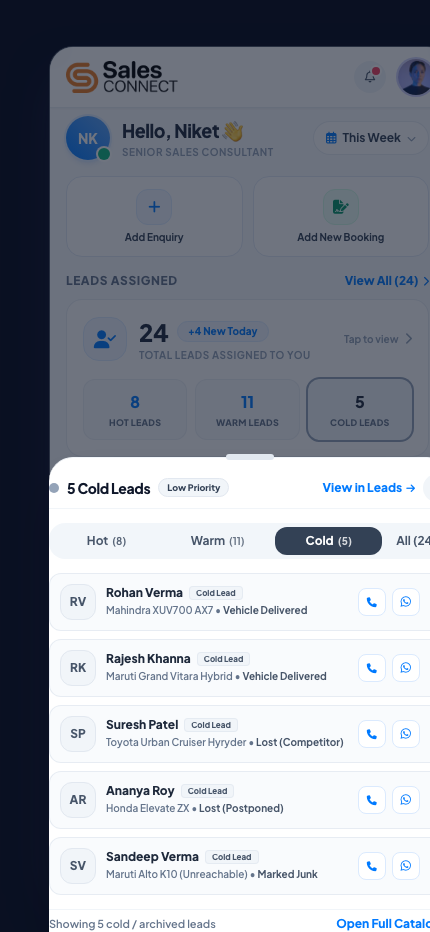
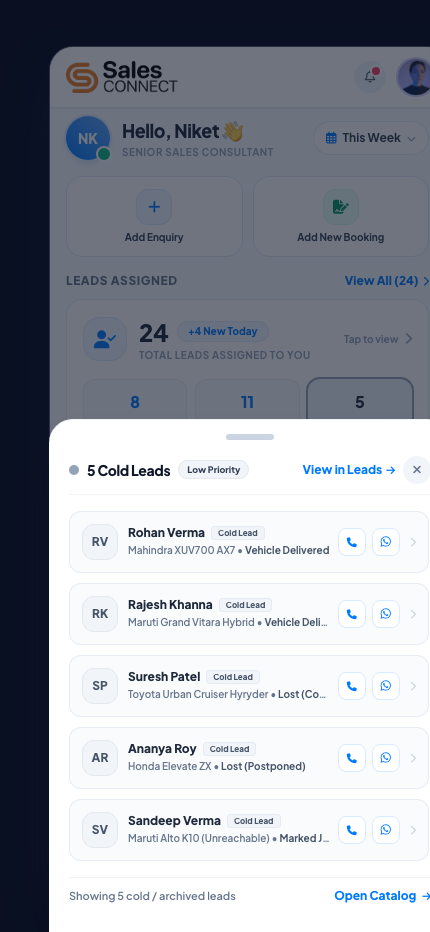
Remove redundant tab strip from assigned leads slider and adjust slider padding

diff --git a/index.html b/index.html
@@ -4262,19 +4262,19 @@
 
   <!-- ASSIGNED LEADS BOTTOM SHEET SLIDER (OPENS ON CLICKING ANY OF THE 3 CARDS) -->
   <div id="assignedLeadsSliderModal" onclick="if(event.target === this) closeAssignedLeadsSlider()" class="hidden fixed inset-0 bg-slate-900/60 backdrop-blur-xs flex items-end justify-center z-50 transition-opacity">
-    <div id="assignedLeadsSliderSheet" class="bg-white rounded-t-3xl w-full max-w-[402px] p-4.5 space-y-3.5 shadow-2xl border-t border-slate-100 animate-slide-up flex flex-col max-h-[82vh]">
+    <div id="assignedLeadsSliderSheet" class="bg-white rounded-t-3xl w-full max-w-[402px] px-5 pt-3.5 pb-6 shadow-2xl border-t border-slate-100 animate-slide-up flex flex-col max-h-[82vh] space-y-3.5">
       
       <!-- Drag & Pull Handle -->
-      <div class="w-12 h-1.5 bg-slate-200 rounded-full mx-auto -mt-1 cursor-pointer shrink-0" onclick="closeAssignedLeadsSlider()"></div>
+      <div class="w-12 h-1.5 bg-slate-300 rounded-full mx-auto mb-0.5 cursor-pointer shrink-0" onclick="closeAssignedLeadsSlider()"></div>
 
       <!-- Slider Header -->
-      <div class="flex items-center justify-between shrink-0 pb-1.5 border-b border-slate-100">
-        <div class="flex items-center gap-2">
-          <span id="sliderAssignedIndicator" class="w-2.5 h-2.5 rounded-full bg-amber-500"></span>
-          <h3 id="sliderAssignedTitle" class="text-sm font-black text-slate-900 tracking-tight">8 Hot Leads</h3>
-          <span id="sliderAssignedTag" class="text-[9px] font-black text-amber-700 bg-amber-50 px-2 py-0.5 rounded-full border border-amber-200">High Priority</span>
+      <div class="flex items-center justify-between shrink-0 pb-2.5 border-b border-slate-100">
+        <div class="flex items-center gap-2 min-w-0">
+          <span id="sliderAssignedIndicator" class="w-2.5 h-2.5 rounded-full bg-amber-500 shrink-0"></span>
+          <h3 id="sliderAssignedTitle" class="text-sm font-black text-slate-900 tracking-tight truncate">8 Hot Leads</h3>
+          <span id="sliderAssignedTag" class="text-[9px] font-black text-amber-700 bg-amber-50 px-2 py-0.5 rounded-full border border-amber-200 shrink-0">High Priority</span>
         </div>
-        <div class="flex items-center gap-2">
+        <div class="flex items-center gap-2 shrink-0">
           <button type="button" id="sliderAssignedDeepLinkBtn" onclick="openEnquiryFromSlider()" class="text-xs font-extrabold text-[#007AFF] hover:underline flex items-center gap-1 active:opacity-75 cursor-pointer">
             <span>View in Leads</span>
             <i class="fa-solid fa-arrow-right text-[10px]"></i>
@@ -4285,36 +4285,17 @@
         </div>
       </div>
 
-      <!-- 3 Small Cards Filter Tabs Segment inside Slider -->
-      <div class="flex items-center bg-slate-100/90 p-1 rounded-2xl gap-1 shrink-0 text-xs font-bold">
-        <button type="button" id="sliderTab-hot" onclick="switchSliderLeadsTab('hot')" class="slider-temp-tab flex-1 py-1.5 rounded-xl font-black text-center cursor-pointer transition-all flex items-center justify-center gap-1 bg-amber-500 text-white shadow-2xs">
-          <span>Hot</span>
-          <span id="sliderCount-hot" class="text-[10px] opacity-90">(8)</span>
-        </button>
-        <button type="button" id="sliderTab-warm" onclick="switchSliderLeadsTab('warm')" class="slider-temp-tab flex-1 py-1.5 rounded-xl text-slate-600 hover:text-slate-900 font-bold text-center cursor-pointer transition-all flex items-center justify-center gap-1">
-          <span>Warm</span>
-          <span id="sliderCount-warm" class="text-[10px] opacity-80">(11)</span>
-        </button>
-        <button type="button" id="sliderTab-cold" onclick="switchSliderLeadsTab('cold')" class="slider-temp-tab flex-1 py-1.5 rounded-xl text-slate-600 hover:text-slate-900 font-bold text-center cursor-pointer transition-all flex items-center justify-center gap-1">
-          <span>Cold</span>
-          <span id="sliderCount-cold" class="text-[10px] opacity-80">(5)</span>
-        </button>
-        <button type="button" id="sliderTab-all" onclick="switchSliderLeadsTab('all')" class="slider-temp-tab px-2.5 py-1.5 rounded-xl text-slate-600 hover:text-slate-900 font-bold text-center cursor-pointer transition-all">
-          <span>All (24)</span>
-        </button>
-      </div>
-
       <!-- Scrollable Lead Cards Feed -->
-      <div id="sliderAssignedListContainer" class="flex-1 overflow-y-auto space-y-2 pr-1 custom-scroll max-h-[50vh]">
+      <div id="sliderAssignedListContainer" class="flex-1 overflow-y-auto space-y-2.5 pr-0.5 custom-scroll max-h-[56vh] py-0.5">
         <!-- Dynamically populated by renderSliderAssignedLeadsList() -->
       </div>
 
       <!-- Bottom Quick Summary / CTA -->
-      <div class="pt-1.5 border-t border-slate-100 flex items-center justify-between shrink-0">
-        <span id="sliderAssignedCountNote" class="text-[11px] font-semibold text-slate-500">Showing 8 priority leads</span>
-        <button onclick="openEnquiryFromSlider()" class="text-xs font-black text-[#007AFF] flex items-center gap-1 cursor-pointer active:opacity-75">
-          <span>Open Full Catalog</span>
-          <i class="fa-solid fa-chevron-right text-[10px]"></i>
+      <div class="pt-2.5 pb-1 border-t border-slate-100 flex items-center justify-between shrink-0">
+        <span id="sliderAssignedCountNote" class="text-[11px] font-semibold text-slate-500 truncate mr-2">Showing 8 high priority hot leads</span>
+        <button onclick="openEnquiryFromSlider()" class="text-xs font-black text-[#007AFF] flex items-center gap-1.5 cursor-pointer shrink-0 active:opacity-75">
+          <span>Open Catalog</span>
+          <i class="fa-solid fa-arrow-right text-[10px]"></i>
         </button>
       </div>
     </div>
@@ -6851,24 +6832,6 @@
         : allAssignedLeadsData.filter(l => l.temp === tempKey);
 
       // Update Slider Tabs
-      ['hot', 'warm', 'cold', 'all'].forEach(k => {
-        const tabBtn = document.getElementById('sliderTab-' + k);
-        if (!tabBtn) return;
-        if (k === tempKey) {
-          if (k === 'hot') {
-            tabBtn.className = 'slider-temp-tab flex-1 py-1.5 rounded-xl font-black text-center cursor-pointer transition-all flex items-center justify-center gap-1 bg-amber-500 text-white shadow-2xs';
-          } else if (k === 'warm') {
-            tabBtn.className = 'slider-temp-tab flex-1 py-1.5 rounded-xl font-black text-center cursor-pointer transition-all flex items-center justify-center gap-1 bg-[#007AFF] text-white shadow-2xs';
-          } else if (k === 'cold') {
-            tabBtn.className = 'slider-temp-tab flex-1 py-1.5 rounded-xl font-black text-center cursor-pointer transition-all flex items-center justify-center gap-1 bg-slate-700 text-white shadow-2xs';
-          } else {
-            tabBtn.className = 'slider-temp-tab px-2.5 py-1.5 rounded-xl bg-white text-[#007AFF] font-black text-center cursor-pointer transition-all shadow-2xs';
-          }
-        } else {
-          tabBtn.className = 'slider-temp-tab ' + (k === 'all' ? 'px-2.5' : 'flex-1') + ' py-1.5 rounded-xl text-slate-600 hover:text-slate-900 font-bold text-center cursor-pointer transition-all flex items-center justify-center gap-1';
-        }
-      });
-
       if (tempKey === 'hot') {
         if (title) title.innerText = `${filtered.length} Hot Leads`;
         if (tag) {
@@ -6921,7 +6884,7 @@
             : 'bg-slate-100 text-slate-600 border-slate-200';
 
         return `
-          <div onclick="closeAssignedLeadsSlider(); openEnquiryDetails('${lead.name}', '${lead.id}')" class="bg-slate-50/80 hover:bg-white p-2.5 rounded-xl border border-slate-200/80 shadow-2xs flex items-center justify-between active:scale-[0.99] transition-all cursor-pointer">
+          <div onclick="closeAssignedLeadsSlider(); openEnquiryDetails('${lead.name}', '${lead.id}')" class="bg-slate-50/80 hover:bg-white p-3 rounded-xl border border-slate-200/80 shadow-2xs flex items-center justify-between active:scale-[0.99] transition-all cursor-pointer">
             <div class="flex items-center gap-2.5 min-w-0">
               <div class="w-9 h-9 rounded-xl ${avatarColor} font-black text-xs flex items-center justify-center shrink-0 border">
                 ${lead.initials}

diff --git a/sales_connect_redesign.html b/sales_connect_redesign.html
@@ -4262,19 +4262,19 @@
 
   <!-- ASSIGNED LEADS BOTTOM SHEET SLIDER (OPENS ON CLICKING ANY OF THE 3 CARDS) -->
   <div id="assignedLeadsSliderModal" onclick="if(event.target === this) closeAssignedLeadsSlider()" class="hidden fixed inset-0 bg-slate-900/60 backdrop-blur-xs flex items-end justify-center z-50 transition-opacity">
-    <div id="assignedLeadsSliderSheet" class="bg-white rounded-t-3xl w-full max-w-[402px] p-4.5 space-y-3.5 shadow-2xl border-t border-slate-100 animate-slide-up flex flex-col max-h-[82vh]">
+    <div id="assignedLeadsSliderSheet" class="bg-white rounded-t-3xl w-full max-w-[402px] px-5 pt-3.5 pb-6 shadow-2xl border-t border-slate-100 animate-slide-up flex flex-col max-h-[82vh] space-y-3.5">
       
       <!-- Drag & Pull Handle -->
-      <div class="w-12 h-1.5 bg-slate-200 rounded-full mx-auto -mt-1 cursor-pointer shrink-0" onclick="closeAssignedLeadsSlider()"></div>
+      <div class="w-12 h-1.5 bg-slate-300 rounded-full mx-auto mb-0.5 cursor-pointer shrink-0" onclick="closeAssignedLeadsSlider()"></div>
 
       <!-- Slider Header -->
-      <div class="flex items-center justify-between shrink-0 pb-1.5 border-b border-slate-100">
-        <div class="flex items-center gap-2">
-          <span id="sliderAssignedIndicator" class="w-2.5 h-2.5 rounded-full bg-amber-500"></span>
-          <h3 id="sliderAssignedTitle" class="text-sm font-black text-slate-900 tracking-tight">8 Hot Leads</h3>
-          <span id="sliderAssignedTag" class="text-[9px] font-black text-amber-700 bg-amber-50 px-2 py-0.5 rounded-full border border-amber-200">High Priority</span>
+      <div class="flex items-center justify-between shrink-0 pb-2.5 border-b border-slate-100">
+        <div class="flex items-center gap-2 min-w-0">
+          <span id="sliderAssignedIndicator" class="w-2.5 h-2.5 rounded-full bg-amber-500 shrink-0"></span>
+          <h3 id="sliderAssignedTitle" class="text-sm font-black text-slate-900 tracking-tight truncate">8 Hot Leads</h3>
+          <span id="sliderAssignedTag" class="text-[9px] font-black text-amber-700 bg-amber-50 px-2 py-0.5 rounded-full border border-amber-200 shrink-0">High Priority</span>
         </div>
-        <div class="flex items-center gap-2">
+        <div class="flex items-center gap-2 shrink-0">
           <button type="button" id="sliderAssignedDeepLinkBtn" onclick="openEnquiryFromSlider()" class="text-xs font-extrabold text-[#007AFF] hover:underline flex items-center gap-1 active:opacity-75 cursor-pointer">
             <span>View in Leads</span>
             <i class="fa-solid fa-arrow-right text-[10px]"></i>
@@ -4285,36 +4285,17 @@
         </div>
       </div>
 
-      <!-- 3 Small Cards Filter Tabs Segment inside Slider -->
-      <div class="flex items-center bg-slate-100/90 p-1 rounded-2xl gap-1 shrink-0 text-xs font-bold">
-        <button type="button" id="sliderTab-hot" onclick="switchSliderLeadsTab('hot')" class="slider-temp-tab flex-1 py-1.5 rounded-xl font-black text-center cursor-pointer transition-all flex items-center justify-center gap-1 bg-amber-500 text-white shadow-2xs">
-          <span>Hot</span>
-          <span id="sliderCount-hot" class="text-[10px] opacity-90">(8)</span>
-        </button>
-        <button type="button" id="sliderTab-warm" onclick="switchSliderLeadsTab('warm')" class="slider-temp-tab flex-1 py-1.5 rounded-xl text-slate-600 hover:text-slate-900 font-bold text-center cursor-pointer transition-all flex items-center justify-center gap-1">
-          <span>Warm</span>
-          <span id="sliderCount-warm" class="text-[10px] opacity-80">(11)</span>
-        </button>
-        <button type="button" id="sliderTab-cold" onclick="switchSliderLeadsTab('cold')" class="slider-temp-tab flex-1 py-1.5 rounded-xl text-slate-600 hover:text-slate-900 font-bold text-center cursor-pointer transition-all flex items-center justify-center gap-1">
-          <span>Cold</span>
-          <span id="sliderCount-cold" class="text-[10px] opacity-80">(5)</span>
-        </button>
-        <button type="button" id="sliderTab-all" onclick="switchSliderLeadsTab('all')" class="slider-temp-tab px-2.5 py-1.5 rounded-xl text-slate-600 hover:text-slate-900 font-bold text-center cursor-pointer transition-all">
-          <span>All (24)</span>
-        </button>
-      </div>
-
       <!-- Scrollable Lead Cards Feed -->
-      <div id="sliderAssignedListContainer" class="flex-1 overflow-y-auto space-y-2 pr-1 custom-scroll max-h-[50vh]">
+      <div id="sliderAssignedListContainer" class="flex-1 overflow-y-auto space-y-2.5 pr-0.5 custom-scroll max-h-[56vh] py-0.5">
         <!-- Dynamically populated by renderSliderAssignedLeadsList() -->
       </div>
 
       <!-- Bottom Quick Summary / CTA -->
-      <div class="pt-1.5 border-t border-slate-100 flex items-center justify-between shrink-0">
-        <span id="sliderAssignedCountNote" class="text-[11px] font-semibold text-slate-500">Showing 8 priority leads</span>
-        <button onclick="openEnquiryFromSlider()" class="text-xs font-black text-[#007AFF] flex items-center gap-1 cursor-pointer active:opacity-75">
-          <span>Open Full Catalog</span>
-          <i class="fa-solid fa-chevron-right text-[10px]"></i>
+      <div class="pt-2.5 pb-1 border-t border-slate-100 flex items-center justify-between shrink-0">
+        <span id="sliderAssignedCountNote" class="text-[11px] font-semibold text-slate-500 truncate mr-2">Showing 8 high priority hot leads</span>
+        <button onclick="openEnquiryFromSlider()" class="text-xs font-black text-[#007AFF] flex items-center gap-1.5 cursor-pointer shrink-0 active:opacity-75">
+          <span>Open Catalog</span>
+          <i class="fa-solid fa-arrow-right text-[10px]"></i>
         </button>
       </div>
     </div>
@@ -6851,24 +6832,6 @@
         : allAssignedLeadsData.filter(l => l.temp === tempKey);
 
       // Update Slider Tabs
-      ['hot', 'warm', 'cold', 'all'].forEach(k => {
-        const tabBtn = document.getElementById('sliderTab-' + k);
-        if (!tabBtn) return;
-        if (k === tempKey) {
-          if (k === 'hot') {
-            tabBtn.className = 'slider-temp-tab flex-1 py-1.5 rounded-xl font-black text-center cursor-pointer transition-all flex items-center justify-center gap-1 bg-amber-500 text-white shadow-2xs';
-          } else if (k === 'warm') {
-            tabBtn.className = 'slider-temp-tab flex-1 py-1.5 rounded-xl font-black text-center cursor-pointer transition-all flex items-center justify-center gap-1 bg-[#007AFF] text-white shadow-2xs';
-          } else if (k === 'cold') {
-            tabBtn.className = 'slider-temp-tab flex-1 py-1.5 rounded-xl font-black text-center cursor-pointer transition-all flex items-center justify-center gap-1 bg-slate-700 text-white shadow-2xs';
-          } else {
-            tabBtn.className = 'slider-temp-tab px-2.5 py-1.5 rounded-xl bg-white text-[#007AFF] font-black text-center cursor-pointer transition-all shadow-2xs';
-          }
-        } else {
-          tabBtn.className = 'slider-temp-tab ' + (k === 'all' ? 'px-2.5' : 'flex-1') + ' py-1.5 rounded-xl text-slate-600 hover:text-slate-900 font-bold text-center cursor-pointer transition-all flex items-center justify-center gap-1';
-        }
-      });
-
       if (tempKey === 'hot') {
         if (title) title.innerText = `${filtered.length} Hot Leads`;
         if (tag) {
@@ -6921,7 +6884,7 @@
             : 'bg-slate-100 text-slate-600 border-slate-200';
 
         return `
-          <div onclick="closeAssignedLeadsSlider(); openEnquiryDetails('${lead.name}', '${lead.id}')" class="bg-slate-50/80 hover:bg-white p-2.5 rounded-xl border border-slate-200/80 shadow-2xs flex items-center justify-between active:scale-[0.99] transition-all cursor-pointer">
+          <div onclick="closeAssignedLeadsSlider(); openEnquiryDetails('${lead.name}', '${lead.id}')" class="bg-slate-50/80 hover:bg-white p-3 rounded-xl border border-slate-200/80 shadow-2xs flex items-center justify-between active:scale-[0.99] transition-all cursor-pointer">
             <div class="flex items-center gap-2.5 min-w-0">
               <div class="w-9 h-9 rounded-xl ${avatarColor} font-black text-xs flex items-center justify-center shrink-0 border">
                 ${lead.initials}

diff --git a/walkthrough.md b/walkthrough.md
@@ -19,20 +19,21 @@ Implemented a native **Bottom Sheet Slider** that slides up from the bottom of t
 
 1. **Native Bottom Sheet Slider (`#assignedLeadsSliderModal`)**:
    - Tapping **HOT LEADS (8)**, **WARM LEADS (11)**, **COLD LEADS (5)**, or the header **TOTAL LEADS ASSIGNED TO YOU (24)** opens a modal that slides up smoothly from the bottom with a dimmed backdrop.
-   - **Pull Handle**: Clean iOS-style grab bar at the top of the sheet for intuitive dragging/closing.
+   - **Streamlined Card-Focused Content**: Removed the redundant segmented control tab bar from inside the slider, allowing each card tap to directly showcase its dedicated leads list with maximum vertical readability.
+   - **Optimized Padding & Safe Areas**:
+     - Generous horizontal padding (`px-5` / 20px) ensuring badges, avatars, and action buttons don't clip at device edges.
+     - Centered, unclipped pull handle bar (`mb-0.5`).
+     - Proper bottom padding (`pb-6`) and safe spacing for the footer count note and `Open Catalog →` CTA.
    - **Header**:
      - Dynamic title & priority tag (e.g. `🟠 8 Hot Leads (High Priority)`, `🔵 11 Warm Leads (Medium Priority)`, `⚫ 5 Cold Leads (Low Priority)`).
      - Direct CTA link: `View in Leads →` which navigates to the Enquiries screen with the selected temperature pre-filtered.
      - Close `✕` button to dismiss the slider.
-   - **Segmented Control Slider Tabs Inside the Bottom Sheet**:
-     - Includes segmented tabs at the top of the sheet: `🔥 Hot (8)` | `⚡ Warm (11)` | `❄ Cold (5)` | `All (24)`.
-     - Users can switch between all three small cards directly within the slider without needing to close and re-open.
    - **Scrollable Lead Cards Feed**:
-     - Customer avatar circle with initials and temperature color coding.
+     - Generously padded lead cards (`p-3 rounded-xl`) with customer avatar circle, initials, and temperature color coding.
      - Customer name, model interest, and stage tag (e.g. `Mohit Kumar`, `Hot Lead`, `Suzuki Brezza ZXi • New Lead`).
      - Instant action buttons: Brand blue **Call** (`fa-phone`) and **WhatsApp** (`fa-whatsapp`) buttons.
      - Tapping any lead card closes the slider and navigates directly to the lead's detailed view.
-   - **Bottom Summary Bar**: Displays live count note (e.g. `Showing 8 high priority hot leads`) and an `Open Full Catalog →` CTA.
+   - **Bottom Summary Bar**: Displays live count note (e.g. `Showing 8 high priority hot leads`) and an `Open Catalog →` CTA.
 
 2. **Clean & Compact Home Dashboard**:
    - The inline accordion was removed from inside `#homeAssignedMainCard`, keeping the Home screen clean, uncluttered, and fixed height.
